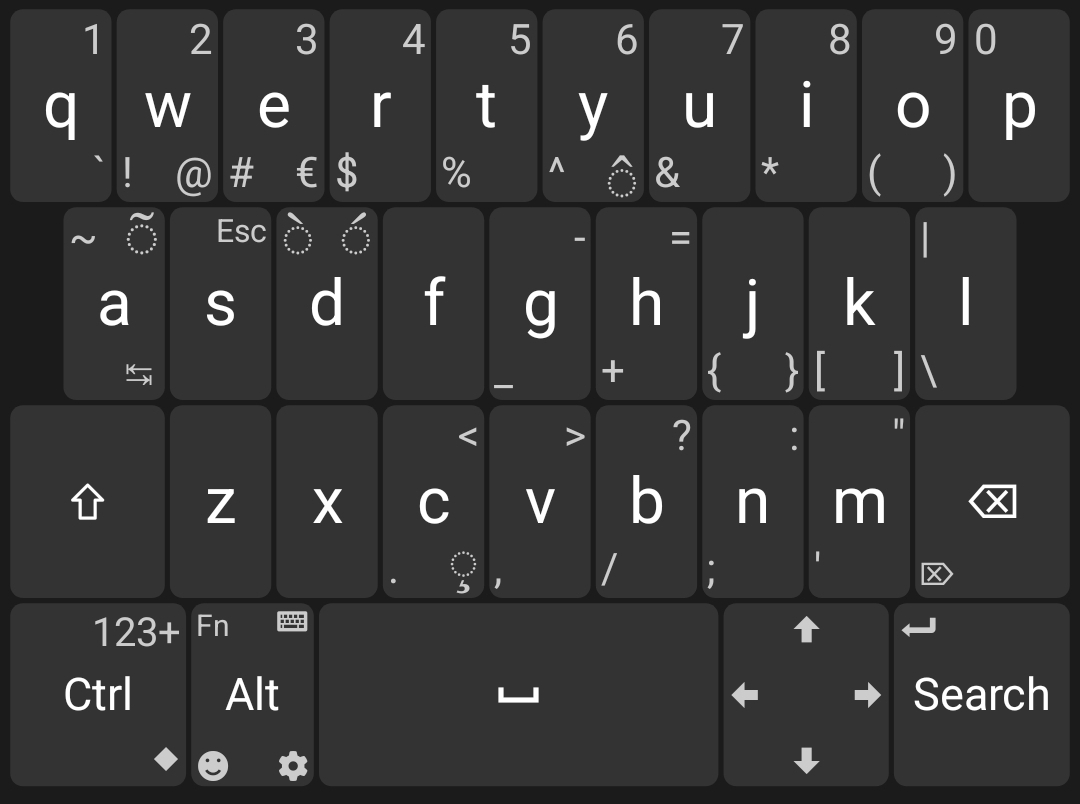
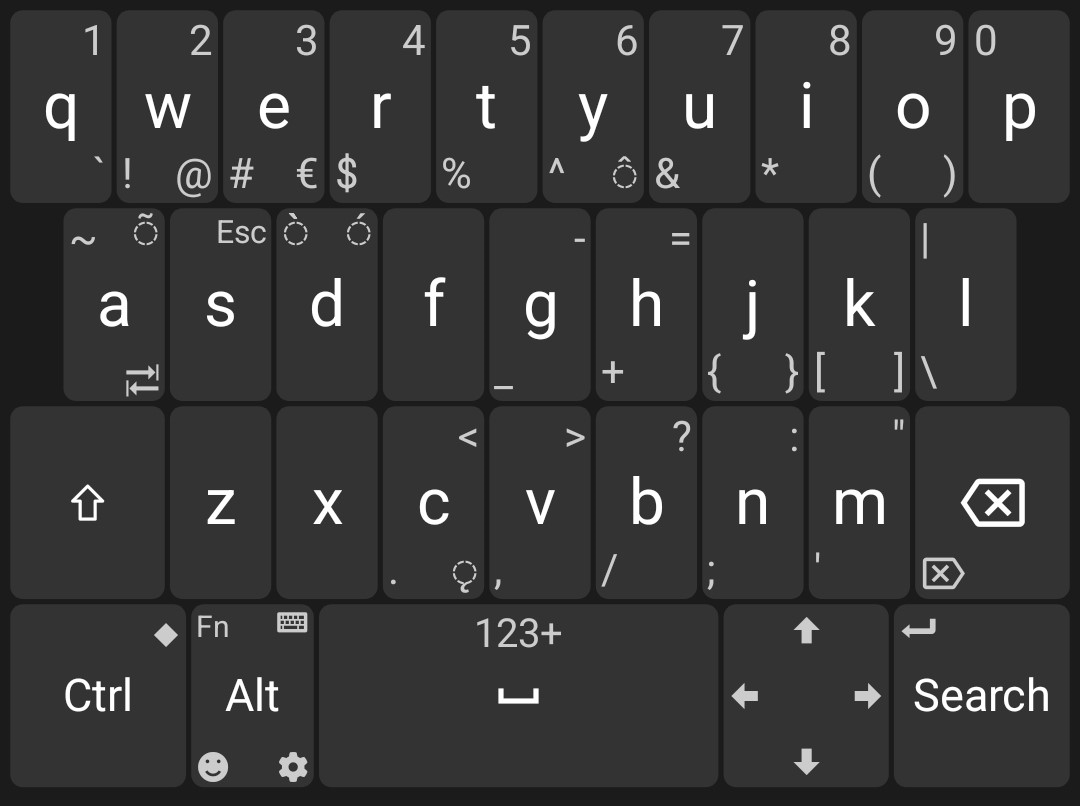
QWERTY7 layout for testing

diff --git a/README.md b/README.md
@@ -3,16 +3,19 @@
 Awesome work on the original [upstream](https://github.com/Julow/Unexpected-Keyboard) repo ❤
 
 This fork currently has the following extra changes:
+
 - Add QWERTY2 Layout, this layout is an alternative to the original QWERTY, it is a programming layout, (not a localization), the main goal on this layout was first to move the corners extrakeys away from phone's edge (good for bulky phone case), after that some other keys rearrangements were also done to improve the layout overall
 - The QUERTY2 layout has adjusted key proportions on the bottom row, giving more importance to the navigation arrows key
 - To implement the QUERTY2 Layout, there is some added logic that enable each individual layout to be paired with a specif numeric layout, so it's possible to have different numeric layouts.
-- Added an Extra variant APK builder to the makefile, called fork-debug, this extra apk has a different namespace, so it can be installed in parallel to the oficial APK, very useful for testing, or for building from source a modified version with personal preferences, and still be able to load the official APK at same time.
-- Add the capability for the Github CI action to utilize the `DEBUG_KEYSTORE` secret, check the contribution.ms for intructions.
+- Added an Extra variant APK builder to the makefile, called fork-debug, this extra apk has a different namespace, so it can be installed in parallel to the official APK, very useful for testing, or for building from source a modified version with personal preferences, and still be able to load the official APK at same time.
+- Add the capability for the Github CI action to utilize the `DEBUG_KEYSTORE` secret, check the [Contributing](CONTRIBUTING.md) for instructions.
 - Add QWERTY3 - QWERTY9 layout variations, Using them for testing different key locations
 
-**Who is reading this, please check out QWERTY6 layout, so far, that is the best candidate. Any feedback or idea is appreciated!**
+**Who is reading this, please check out QWERTY7 layout, so far, that is the best candidate. Any feedback or idea is appreciated!**
 
-ps. from qwerty2 to 6, there are variations, 7-8 are not utilized right now and there is nothing to test on them.
+(QWERTY7 Screenshots at end of this page)
+
+Ps. from qwerty2 to 7, there are variations, 8-9 are not utilized right now and there is nothing to test on them.
 
 -----
 ## Unexpected Keyboard
@@ -53,17 +56,25 @@ For instructions on building the application, see
 
 ## Screenshots
 
-<img src=metadata/android/en-US/images/featureGraphic.png
+QWERTY7 Layout:
+
+<img src=screenshots/qwerty7.jpg
 alt="Unexpected Keyboard Image"
 style="width: 400px;
        margin-left: 6px;
        margin-right: 6px;">
-<img src=metadata/android/en-US/images/featureGraphic3.png
+<img src=screenshots/numeric.jpg
 alt="Unexpected Keyboard Image"
 style="width: 400px;
        margin-left: 6px;
        margin-right: 6px;">
-<img src=metadata/android/en-US/images/featureGraphic2.png
+
+<img src=screenshots/qwerty7_fn.jpg
+alt="Unexpected Keyboard Image"
+style="width: 400px;
+       margin-left: 6px;
+       margin-right: 6px;">
+<img src=screenshots/numeric_fn.jpg
 alt="Unexpected Keyboard Image"
 style="width: 400px;
        margin-left: 6px;
